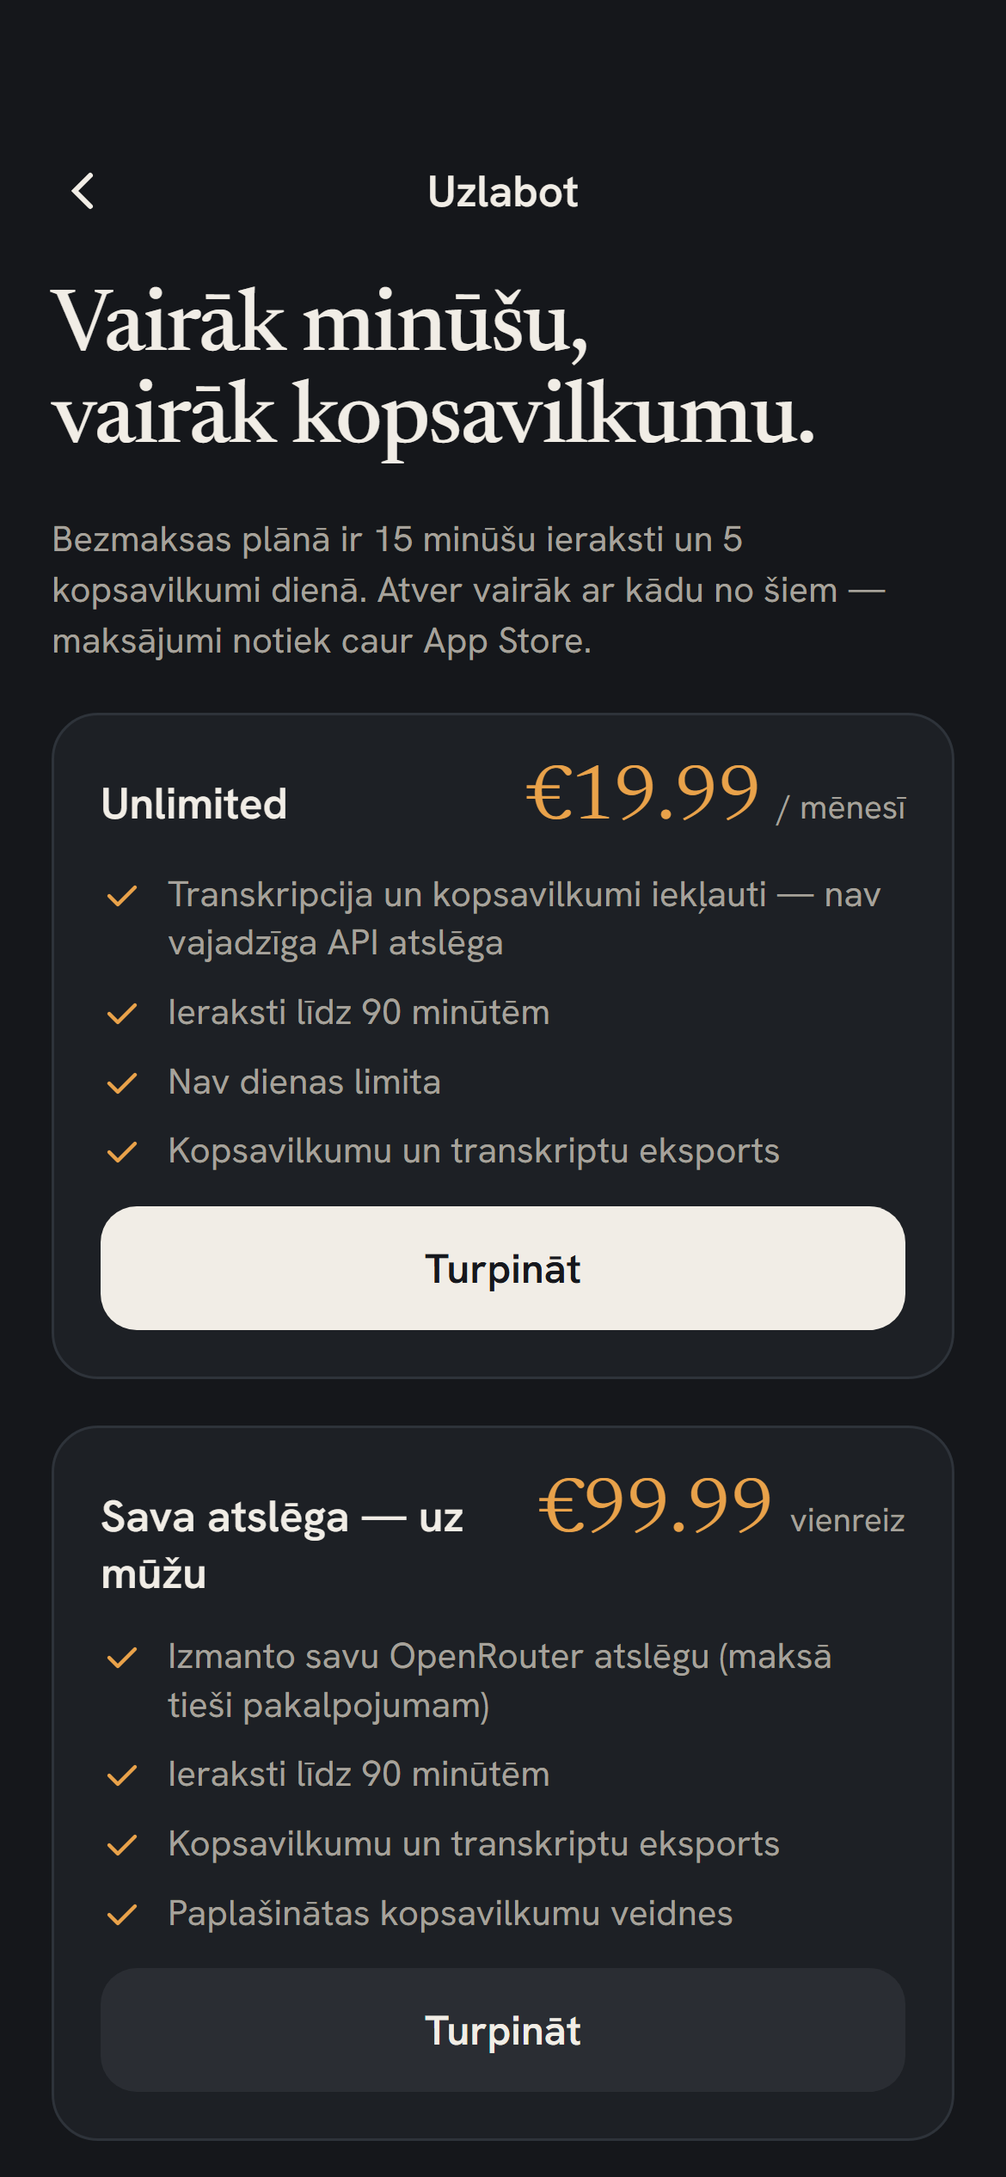
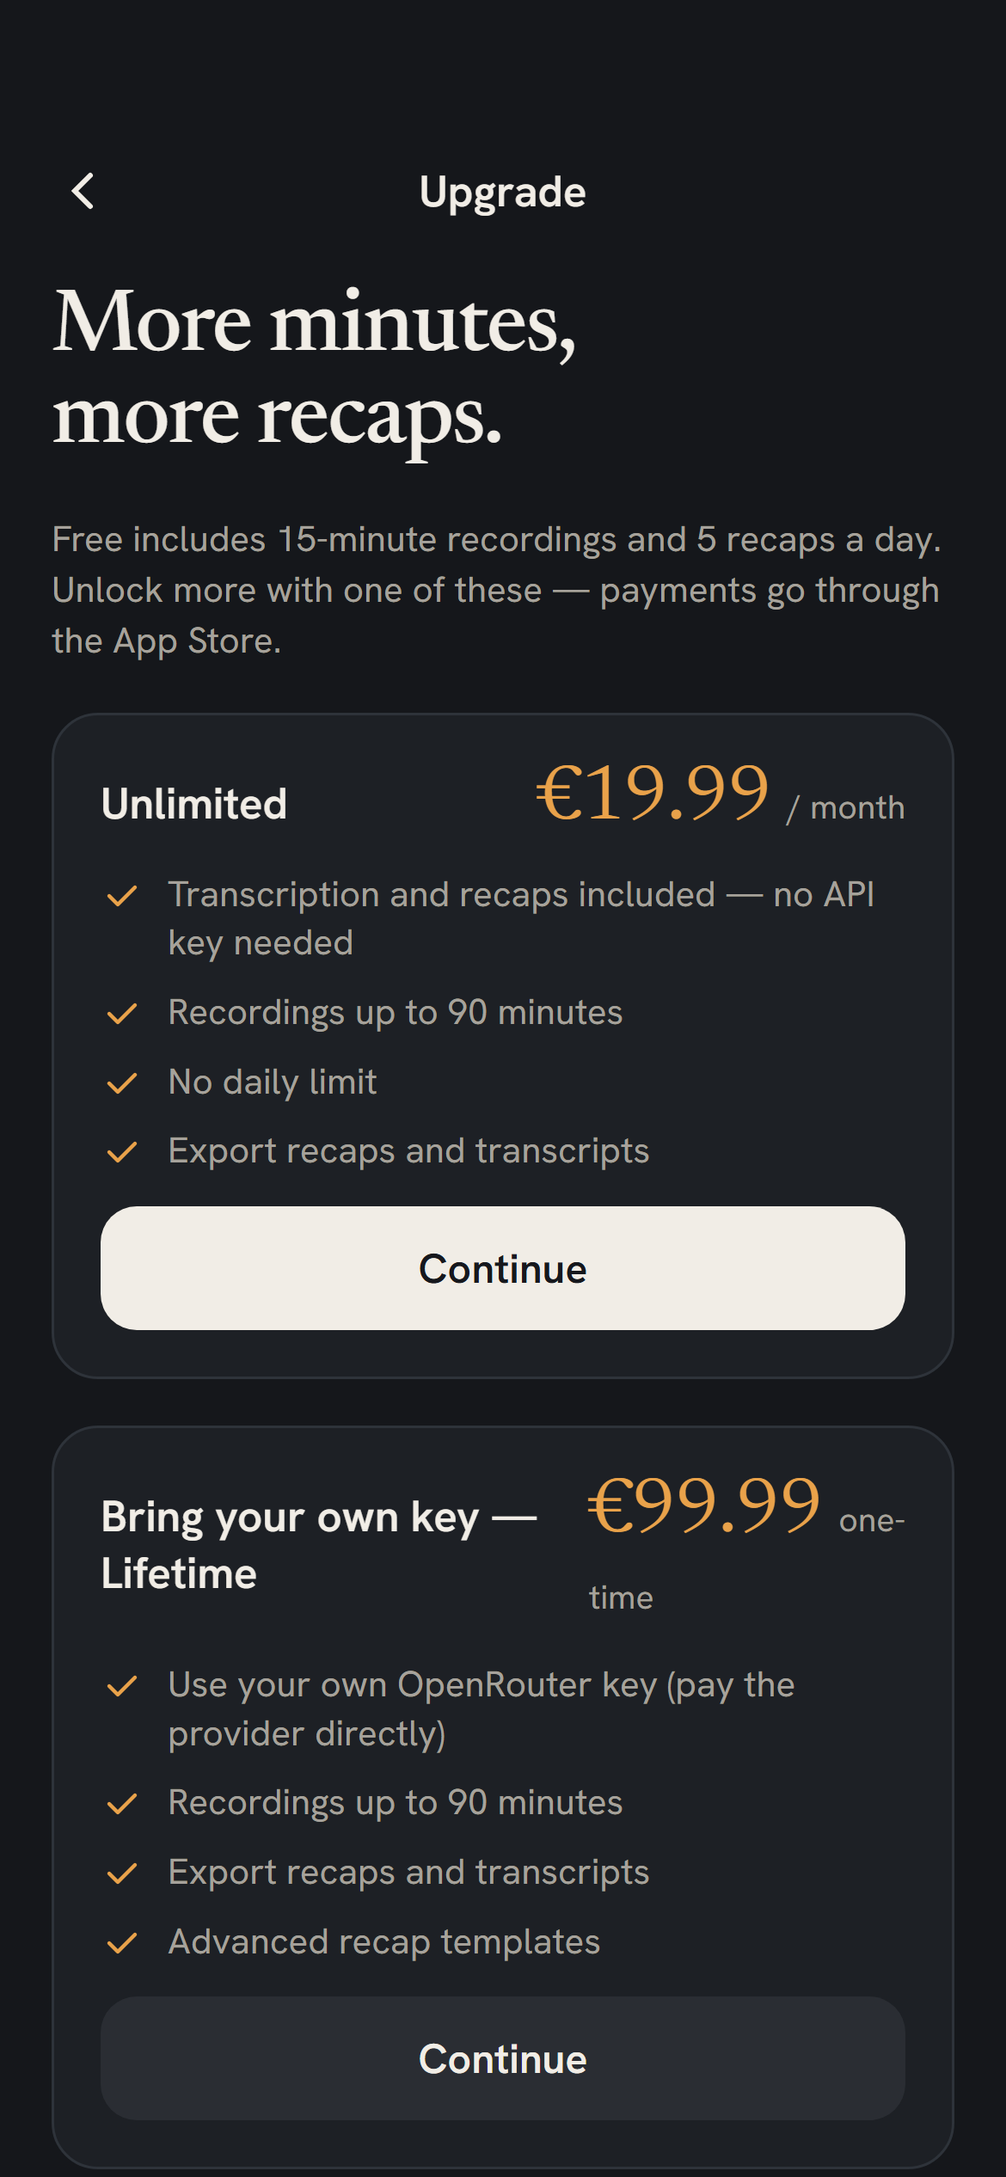
design: store screenshots in English with generic fictional content
The mocks carried the designer's real meeting data and Latvian UI; the
generator now renders English copies with a fictional product-team meeting
(no names, companies or systems from real recordings). Watch shots and the
IAP paywall render are English too.

diff --git a/design/store-screenshots/make_shots.py b/design/store-screenshots/make_shots.py
@@ -1,25 +1,136 @@
-"""Render App Store screenshots and the IAP review screenshot from the design-canvas mocks.
+"""Render App Store screenshots (iPhone + Apple Watch) and the IAP review screenshot from the design-canvas mocks.
 
-Each store shot = caption + the 390x844 mock (iframe) scaled to fill the width, on a brand background.
-Sizes: iPhone 6.9" 1320x2868, iPhone 6.5" 1284x2778. Output: <repo>/design/store-screenshots/.
+The mocks are Latvian and carry the designer's sample data; for the store we render them in English with
+generic, fictional content (see SUBST). Each iPhone shot = caption + the 390x844 mock (iframe) scaled to fill
+the width, on a brand background. Watch shots are the 416x496 mocks 1:1 (Apple Watch Series 11 size).
+
+Sizes: iPhone 6.9" 1320x2868, iPhone 6.5" 1284x2778, Apple Watch 416x496.
+Run from anywhere:  python design/store-screenshots/make_shots.py
+Needs Chrome at CHROME and network access for Google Fonts.
 """
-import os, subprocess, struct, sys, html
+import html
+import os
+import struct
+import subprocess
 
 REPO = os.path.abspath(os.path.join(os.path.dirname(__file__), "..", ".."))
 CANVAS = os.path.join(REPO, "design", "ai-recap-design-handoff", "design-canvas")
 OUT = os.path.join(REPO, "design", "store-screenshots")
 WORK = os.path.join(os.environ.get("TEMP", "."), "ai-recap-shots-html")
+MOCKS_EN = os.path.join(WORK, "mocks-en")
 CHROME = r"C:\Program Files\Google\Chrome\Application\chrome.exe"
 os.makedirs(OUT, exist_ok=True)
-os.makedirs(WORK, exist_ok=True)
+os.makedirs(MOCKS_EN, exist_ok=True)
 
 LIGHT = dict(bg="#F4F5F7", ink="#16181D", muted="#656A73", accent="#A8661A", frame="#FFFFFF", line="#E1E4E9")
 DARK = dict(bg="#15171B", ink="#F1EDE6", muted="#A6A29B", accent="#E9A24A", frame="#1D2025", line="#2E333A")
 
 FONTS = '<link rel="stylesheet" href="https://fonts.googleapis.com/css2?family=Newsreader:ital,opsz,wght@0,6..72,300..600;1,6..72,300..600&family=Hanken+Grotesk:wght@400;500;600;700&display=swap">'
 
+# ---------------------------------------------------------------------------------------------------
+# English, generic content for the store. Longest strings first so partial matches never win.
+# The fictional meeting: a product team reviewing a Q4 roadmap. Names are invented.
+# ---------------------------------------------------------------------------------------------------
+SUBST = [
+    ('lang="lv"', 'lang="en"'),
+    # Home
+    ("Svētdiena, 20. septembris", "Sunday, 20 September"),
+    ("ierakstīts šomēnes", "recorded this month"),
+    ("Meklēt ierakstos un kopsavilkumos", "Search recordings and recaps"),
+    ("Capital – IT: PIM sinhronizācija ar Sales7", "Product team: Q4 roadmap review"),
+    ("Vajadzētu atcerēties. Tev vajadzētu atcerēties…", "Remember to book the venue for the…"),
+    ("Piegādātāja līguma pārskats – nosacījumi un termiņi", "Supplier contract review – terms and deadlines"),
+    ("Ideja: automātiski marķēt ierakstus pēc kalendāra", "Idea: tag recordings automatically from the calendar"),
+    ("Transkribē · 38%", "Transcribing · 38%"),
+    # Recording
+    ("no 15 min · audio tiek saglabāts nepārtraukti", "of 15 min · audio is saved continuously"),
+    ("4 fragmenti nosūtīti", "4 segments sent"),
+    # Detail (summary)
+    ("Komanda pārskatīja PIM un Sales7 sinhronizācijas kļūdas un vienojās par labojumu līdz piektdienai. Atvērts jautājums — vai cenas eksportēt no PIM vai atstāt ERP.",
+     "The team reviewed the Q4 roadmap and agreed to ship the new onboarding flow by the end of October. Open question — whether annual pricing launches this quarter or next."),
+    ("Produkta apraksti tiek sinhronizēti tikai no PIM uz Sales7, ne otrādi.", "The onboarding redesign ships first; the analytics dashboard moves to November."),
+    ("Nakts sinhronizācija pārcelta uz 03:00, lai nesakristu ar ERP dublēšanu.", "The weekly sync moves to Tuesdays at 10:00 so design can attend."),
+    ("Salabot SKU dublikātu kļūdu importā", "Finalize the onboarding copy with design"),
+    ("Noskaidrot ar pārdošanu, kur dzīvo cenas", "Confirm annual pricing with sales"),
+    ("Mārtiņš · līdz piektdienai", "Anna · by Friday"),
+    ("Mārtiņš · izdarīts", "Anna · done"),
+    ("Runātājs 2 · nākamā sanāksme", "Speaker 2 · next meeting"),
+    ("Pārģenerēt ar piezīmēm", "Regenerate with notes"),
+    ("2 runātāji", "2 speakers"),
+    ("Šodien 14:32", "Today 14:32"),
+    # Transcript
+    ("Importā dublējas SKU, kad PIM atsūta variantu bez galvenā produkta. Tas ir tas, ko Sales7 pēc tam rāda kā divus ierakstus.",
+     "Onboarding is our biggest drop-off. If we ship the redesign first, everything else in Q4 benefits from it."),
+    ("Skaidrs. Bet cenas — ", "Agreed. But pricing — "),
+    ("vai tās vispār vajadzētu eksportēt no PIM", "should annual plans go live this quarter"),
+    ("? Pārdošana šobrīd labo tās tieši ERP.", "? Sales is still testing the offer with a few accounts."),
+    ("Labs jautājums. Atstāsim kā atvērtu un noskaidrosim līdz nākamajai sanāksmei. Tikmēr aprakstus sinhronizējam tikai vienā virzienā — no PIM uz Sales7.",
+     "Good question. Let's leave it open and confirm before the next meeting. Meanwhile the onboarding redesign stays first on the list."),
+    ("Un nakts sinhronizāciju pārceļam uz trijiem, lai nesakrīt ar dublēšanu.", "And we move the weekly sync to Tuesday so design can join."),
+    ("Meklēt transkriptā", "Search transcript"),
+    ("PIM sinhronizācija ar Sales7", "Q4 roadmap review"),
+    ("Runātājs 2", "Speaker 2"),
+    ("Runātāji", "Speakers"),
+    ("Mārtiņš", "Anna"),
+    # Contexts
+    ("Kā AI raksta kopsavilkumu", "How the AI writes the recap"),
+    ("Iknedēļas IT sinhronizācijas un projektu sanāksmes.", "Weekly product syncs and roadmap reviews."),
+    ("Iekšējā komandas vai projekta sanāksme", "Internal team or project meeting"),
+    ("Saruna ar klientu vai potenciālo pircēju", "Conversation with a customer or prospect"),
+    ("Personīga piezīme, ideja vai atgādinājums", "Personal note, idea or reminder"),
+    ("Darba, pētījuma vai preses intervija", "Job, research or press interview"),
+    ("Lekcija, nodarbība vai prezentācija", "Lecture, class or presentation"),
+    ("+ norādījumi", "+ instructions"),
+    ("Capital – IT", "Product team"),
+    ("Iebūvētie", "Built-in"),
+    (">Sales7<", ">Roadmap<"),
+    (">PIM<", ">Onboarding<"),
+    (">ERP<", ">Churn<"),
+    (">Mani<", ">Mine<"),
+    # Watch
+    ("Kopsavilkums parādīsies iPhone", "Recap will appear on iPhone"),
+    ("Pēdējais · 14:32", "Latest · 14:32"),
+    ("Ierakstīt", "Record"),
+    ("Saglabāts", "Saved"),
+    (">Gatavs<", ">Done<"),
+    # Shared UI words (after the longer phrases above)
+    ("Kopsavilkums", "Summary"),
+    ("Transkripts", "Transcript"),
+    ("Jautāt AI", "Ask AI"),
+    ("Lēmumi", "Decisions"),
+    ("Uzdevumi", "Tasks"),
+    ("Konteksti", "Contexts"),
+    ("Iestatījumi", "Settings"),
+    (">Ieraksti<", ">Recordings<"),
+    (">Ieraksta<", ">Recording<"),
+    (">Šodien<", ">Today<"),
+    (">Vakar<", ">Yesterday<"),
+    (">Pauzēt<", ">Pause<"),
+    (">Pabeigt<", ">Finish<"),
+    ('aria-label="Pauzēt"', 'aria-label="Pause"'),
+    ('aria-label="Atskaņot"', 'aria-label="Play"'),
+    ('aria-label="Atpakaļ"', 'aria-label="Back"'),
+    ('aria-label="Sākt ierakstu"', 'aria-label="Start recording"'),
+    ('aria-label="Jauns konteksts"', 'aria-label="New context"'),
+]
+
+
+def english_mock(name: str) -> str:
+    """Write an English/generic copy of a mock into MOCKS_EN and return its path."""
+    src = open(os.path.join(CANVAS, name), encoding="utf-8").read()
+    for a, b in SUBST:
+        src = src.replace(a, b)
+    # sanity: nothing personal / Latvian-only left in visible text
+    for leftover in ("Capital", "Sales7", "PIM", "Mārtiņš", "EKII"):
+        if leftover in src:
+            raise SystemExit(f"{name}: '{leftover}' still present after substitution")
+    path = os.path.join(MOCKS_EN, name)
+    open(path, "w", encoding="utf-8").write(src)
+    return path
+
+
+# (file stem, mock(s), caption, subcaption, theme)
 SHOTS = [
-    # (file stem, mock(s), caption, subcaption, theme)
     ("01-home", ["HomeL.dc.html"], "Record once.<br>Remember everything.", "Meetings, calls and voice notes — transcribed and recapped in minutes.", LIGHT),
     ("02-recording", ["RecordingL.dc.html"], "Latvian and English.<br>Even mixed.", "Live waveform, Dynamic Island controls, records with the screen locked.", LIGHT),
     ("03-recap", ["DetailL.dc.html"], "Decisions, tasks, dates.<br>Structured.", "Tick off action items. Regenerate with any context — every version is kept.", LIGHT),
@@ -28,6 +139,10 @@ SHOTS = [
     ("06-contexts", ["ContextsL.dc.html"], "Contexts that speak<br>your vocabulary.", "Sales call, interview, lecture — or your own, with terms and instructions.", LIGHT),
     ("07-dark", ["Detail.dc.html"], "Share it anywhere.<br>Formatting intact.", "Apple Notes, Mail, Notion, Markdown. Audio stays on your device.", DARK),
 ]
+
+WATCH_SHOTS = [("01-watch-home", "WatchHomeL.dc.html"), ("02-watch-recording", "WatchRecordingL.dc.html"), ("03-watch-saved", "WatchSavedL.dc.html")]
+
+SIZES = {"iphone-6.9": (1320, 2868), "iphone-6.5": (1284, 2778)}
 
 # Expands the mocks' templates (sc-for + renderVals()) — the runtime they were written for is not in the handoff.
 EXPAND_JS = """<script>
@@ -54,21 +169,21 @@ function expand(doc) {
 Array.from(document.querySelectorAll('iframe')).forEach(function (f) { f.addEventListener('load', function () { expand(f.contentDocument); }); });
 </script>"""
 
-SIZES = {"iphone-6.9": (1320, 2868), "iphone-6.5": (1284, 2778)}
+
+def iframe(mock_path, w, h, scale):
+    return f'<iframe src="{html.escape(mock_path)}" scrolling="no" style="border:0;width:{w}px;height:{h}px;transform:scale({scale:.4f});transform-origin:0 0;display:block"></iframe>'
 
 
 def wrapper(shot, W, H):
     stem, mocks, cap, sub, th = shot
     margin = 84
     cap_h = 470
-    if len(mocks) == 1 and mocks[0].startswith("Watch") is False:
+    if not mocks[0].startswith("Watch"):
         mw, mh = 390, 844
-        s = (W - 2 * margin) / mw
-        avail = H - cap_h - margin
-        s = min(s, avail / mh)
+        s = min((W - 2 * margin) / mw, (H - cap_h - margin) / mh)
         pw, ph = mw * s, mh * s
         frames = f'''<div style="position:absolute;left:{(W-pw)/2:.1f}px;top:{cap_h}px;width:{pw:.1f}px;height:{ph:.1f}px;border-radius:{54*s:.0f}px;overflow:hidden;box-shadow:0 {40*s/3:.0f}px {120*s/3:.0f}px rgba(0,0,0,.28), 0 0 0 {3*s:.0f}px {th["line"]};background:{th["frame"]}">
-<iframe src="{html.escape(os.path.join(CANVAS, mocks[0]))}" scrolling="no" style="border:0;width:{mw}px;height:{mh}px;transform:scale({s:.4f});transform-origin:0 0;display:block"></iframe></div>'''
+{iframe(english_mock(mocks[0]), mw, mh, s)}</div>'''
     else:
         # two watch mocks (416x496 each at 2x), stacked and offset, as large as the height allows
         mw, mh = 416, 496
@@ -82,13 +197,12 @@ def wrapper(shot, W, H):
             left = margin if i == 0 else W - margin - pw
             top = top0 + i * (ph + gap)
             frames += f'''<div style="position:absolute;left:{left:.1f}px;top:{top:.1f}px;width:{pw:.1f}px;height:{ph:.1f}px;border-radius:{110*s:.0f}px;overflow:hidden;box-shadow:0 30px 90px rgba(0,0,0,.45), 0 0 0 {10*s:.0f}px #2A2D33, 0 0 0 {14*s:.0f}px #111;background:#000">
-<iframe src="{html.escape(os.path.join(CANVAS, m))}" scrolling="no" style="border:0;width:{mw}px;height:{mh}px;transform:scale({s:.4f});transform-origin:0 0;display:block"></iframe></div>'''
+{iframe(english_mock(m), mw, mh, s)}</div>'''
     return f'''<!doctype html><html><head><meta charset="utf-8">{FONTS}
 <style>html,body{{margin:0;width:{W}px;height:{H}px;overflow:hidden;background:{th["bg"]};font-family:'Hanken Grotesk',system-ui,sans-serif;-webkit-font-smoothing:antialiased}}
 .cap{{position:absolute;left:{margin}px;right:{margin}px;top:{margin+16}px;color:{th["ink"]}}}
-h1{{margin:0;font-family:'Newsreader',Georgia,serif;font-weight:500;font-size:112px;line-height:1.02;letter-spacing:-0.02em}}
+h1{{margin:0;font-family:'Newsreader',Georgia,serif;font-weight:500;font-size:100px;line-height:1.04;letter-spacing:-0.02em}}
 p{{margin:26px 0 0;font-size:38px;line-height:1.3;color:{th["muted"]};max-width:{W-2*margin-40}px}}
-.mark{{position:absolute;right:{margin}px;top:{margin+22}px;width:64px;height:64px;border-radius:18px;background:linear-gradient(160deg,#2A2D33,#15171B);display:flex;align-items:center;justify-content:center}}
 </style></head><body>
 <div class="cap"><h1>{cap}</h1><p>{sub}</p></div>
 {frames}
@@ -96,8 +210,14 @@ p{{margin:26px 0 0;font-size:38px;line-height:1.3;color:{th["muted"]};max-width:
 </body></html>'''
 
 
+def watch_wrapper(mock):
+    return f'''<!doctype html><html><head><meta charset="utf-8">{FONTS}<style>html,body{{margin:0;width:416px;height:496px;overflow:hidden;background:#000}}</style></head><body>
+{iframe(english_mock(mock), 416, 496, 1)}
+{EXPAND_JS}</body></html>'''
+
+
 def paywall_html():
-    """The purchase surface, in the app's design language (Settings → Plāns → Uzlabot). 390x844."""
+    """The purchase surface, in the app's design language (Settings → Plan → Upgrade). 390x844, English."""
     th = DARK
     card = lambda title, price, per, feats, primary: f'''
 <div style="display:flex;flex-direction:column;gap:12px;padding:18px;border-radius:18px;background:{th["frame"]};border:1px solid {th["line"]};">
@@ -106,21 +226,21 @@ def paywall_html():
     <div style="font-family:'Newsreader',Georgia,serif;font-size:30px;line-height:1;color:{th["accent"]}">{price}<span style="font-family:'Hanken Grotesk',sans-serif;font-size:13px;color:{th["muted"]};margin-left:6px">{per}</span></div>
   </div>
   <div style="display:flex;flex-direction:column;gap:8px">{''.join(f'<div style="display:flex;gap:10px;align-items:flex-start;font-size:14px;color:{th["muted"]};line-height:1.35"><svg width="16" height="16" viewBox="0 0 24 24" fill="none" stroke="{th["accent"]}" stroke-width="2.2" stroke-linecap="round" stroke-linejoin="round" style="flex:none;margin-top:2px"><path d="M5 12l5 5L20 7"/></svg><span>{f}</span></div>' for f in feats)}</div>
-  <div style="height:48px;border-radius:14px;display:flex;align-items:center;justify-content:center;font-weight:600;font-size:16px;background:{'#F1EDE6' if primary else '#2A2D33'};color:{'#16181D' if primary else th["ink"]}">Turpināt</div>
+  <div style="height:48px;border-radius:14px;display:flex;align-items:center;justify-content:center;font-weight:600;font-size:16px;background:{'#F1EDE6' if primary else '#2A2D33'};color:{'#16181D' if primary else th["ink"]}">Continue</div>
 </div>'''
-    return f'''<!doctype html><html lang="lv"><head><meta charset="utf-8">{FONTS}
+    return f'''<!doctype html><html lang="en"><head><meta charset="utf-8">{FONTS}
 <style>html,body{{margin:0;background:{th["bg"]};color:{th["ink"]};font-family:'Hanken Grotesk',system-ui,sans-serif;-webkit-font-smoothing:antialiased}}</style></head><body>
 <div style="width:390px;height:844px;position:relative;box-sizing:border-box;padding:62px 20px 0;display:flex;flex-direction:column;gap:18px;background:{th["bg"]};overflow:hidden">
   <div style="display:flex;align-items:center;justify-content:space-between">
     <svg width="24" height="24" viewBox="0 0 24 24" fill="none" stroke="{th["ink"]}" stroke-width="2" stroke-linecap="round"><path d="M15 6l-6 6 6 6"/></svg>
-    <div style="font-size:17px;font-weight:600">Uzlabot</div><div style="width:24px"></div>
+    <div style="font-size:17px;font-weight:600">Upgrade</div><div style="width:24px"></div>
   </div>
-  <h1 style="margin:6px 0 0;font-family:'Newsreader',Georgia,serif;font-weight:500;font-size:34px;line-height:1.05;letter-spacing:-0.02em">Vairāk minūšu,<br>vairāk kopsavilkumu.</h1>
-  <div style="font-size:14px;line-height:1.4;color:{th["muted"]}">Bezmaksas plānā ir 15 minūšu ieraksti un 5 kopsavilkumi dienā. Atver vairāk ar kādu no šiem — maksājumi notiek caur App Store.</div>
-  {card("Unlimited", "€19.99", "/ mēnesī", ["Transkripcija un kopsavilkumi iekļauti — nav vajadzīga API atslēga", "Ieraksti līdz 90 minūtēm", "Nav dienas limita", "Kopsavilkumu un transkriptu eksports"], True)}
-  {card("Sava atslēga — uz mūžu", "€99.99", "vienreiz", ["Izmanto savu OpenRouter atslēgu (maksā tieši pakalpojumam)", "Ieraksti līdz 90 minūtēm", "Kopsavilkumu un transkriptu eksports", "Paplašinātas kopsavilkumu veidnes"], False)}
-  <div style="display:flex;justify-content:center;gap:28px;font-size:14px;color:{th["muted"]};margin-top:2px"><span>Atjaunot pirkumus</span><span>Ne tagad</span></div>
-  <div style="font-size:11px;line-height:1.4;color:{th["muted"]};text-align:center;padding:0 8px">Abonementi atjaunojas automātiski, kamēr tos neatceļ App Store iestatījumos. Cenas nosaka App Store tavam reģionam.</div>
+  <h1 style="margin:6px 0 0;font-family:'Newsreader',Georgia,serif;font-weight:500;font-size:34px;line-height:1.05;letter-spacing:-0.02em">More minutes,<br>more recaps.</h1>
+  <div style="font-size:14px;line-height:1.4;color:{th["muted"]}">Free includes 15-minute recordings and 5 recaps a day. Unlock more with one of these — payments go through the App Store.</div>
+  {card("Unlimited", "€19.99", "/ month", ["Transcription and recaps included — no API key needed", "Recordings up to 90 minutes", "No daily limit", "Export recaps and transcripts"], True)}
+  {card("Bring your own key — Lifetime", "€99.99", "one-time", ["Use your own OpenRouter key (pay the provider directly)", "Recordings up to 90 minutes", "Export recaps and transcripts", "Advanced recap templates"], False)}
+  <div style="display:flex;justify-content:center;gap:28px;font-size:14px;color:{th["muted"]};margin-top:2px"><span>Restore Purchases</span><span>Not now</span></div>
+  <div style="font-size:11px;line-height:1.4;color:{th["muted"]};text-align:center;padding:0 8px">Subscriptions renew automatically unless cancelled in App Store settings. Prices are set by the App Store for your region.</div>
 </div></body></html>'''
 
 
@@ -135,21 +255,30 @@ def shoot(html_path, png_path, w, h, scale=1):
     return pw, ph
 
 
-results = []
-for key, (W, H) in SIZES.items():
-    d = os.path.join(OUT, key)
+if __name__ == "__main__":
+    results = []
+    for key, (W, H) in SIZES.items():
+        d = os.path.join(OUT, key)
+        os.makedirs(d, exist_ok=True)
+        for shot in SHOTS:
+            hp = os.path.join(WORK, f"{shot[0]}-{key}.html")
+            open(hp, "w", encoding="utf-8").write(wrapper(shot, W, H))
+            pp = os.path.join(d, f"{shot[0]}.png")
+            results.append((pp, shoot(hp, pp, W, H)))
+
+    d = os.path.join(OUT, "apple-watch")
     os.makedirs(d, exist_ok=True)
-    for shot in SHOTS:
-        hp = os.path.join(WORK, f"{shot[0]}-{key}.html")
-        open(hp, "w", encoding="utf-8").write(wrapper(shot, W, H))
-        pp = os.path.join(d, f"{shot[0]}.png")
-        results.append((pp, shoot(hp, pp, W, H)))
+    for stem, mock in WATCH_SHOTS:
+        hp = os.path.join(WORK, f"{stem}.html")
+        open(hp, "w", encoding="utf-8").write(watch_wrapper(mock))
+        pp = os.path.join(d, f"{stem}.png")
+        results.append((pp, shoot(hp, pp, 416, 496)))
 
-# IAP review screenshot: the paywall as a 6.1" device capture (1170x2532)
-hp = os.path.join(WORK, "paywall.html")
-open(hp, "w", encoding="utf-8").write(paywall_html())
-pp = os.path.join(OUT, "iap-review-paywall-1170x2532.png")
-results.append((pp, shoot(hp, pp, 390, 844, scale=3)))
+    # IAP review screenshot: the paywall as a 6.1" device capture (1170x2532)
+    hp = os.path.join(WORK, "paywall.html")
+    open(hp, "w", encoding="utf-8").write(paywall_html())
+    pp = os.path.join(OUT, "iap-review-paywall-1170x2532.png")
+    results.append((pp, shoot(hp, pp, 390, 844, scale=3)))
 
-for p, (w, h) in results:
-    print(f"{w}x{h}  {os.path.relpath(p, REPO)}")
+    for p, (w, h) in results:
+        print(f"{w}x{h}  {os.path.relpath(p, REPO)}")
